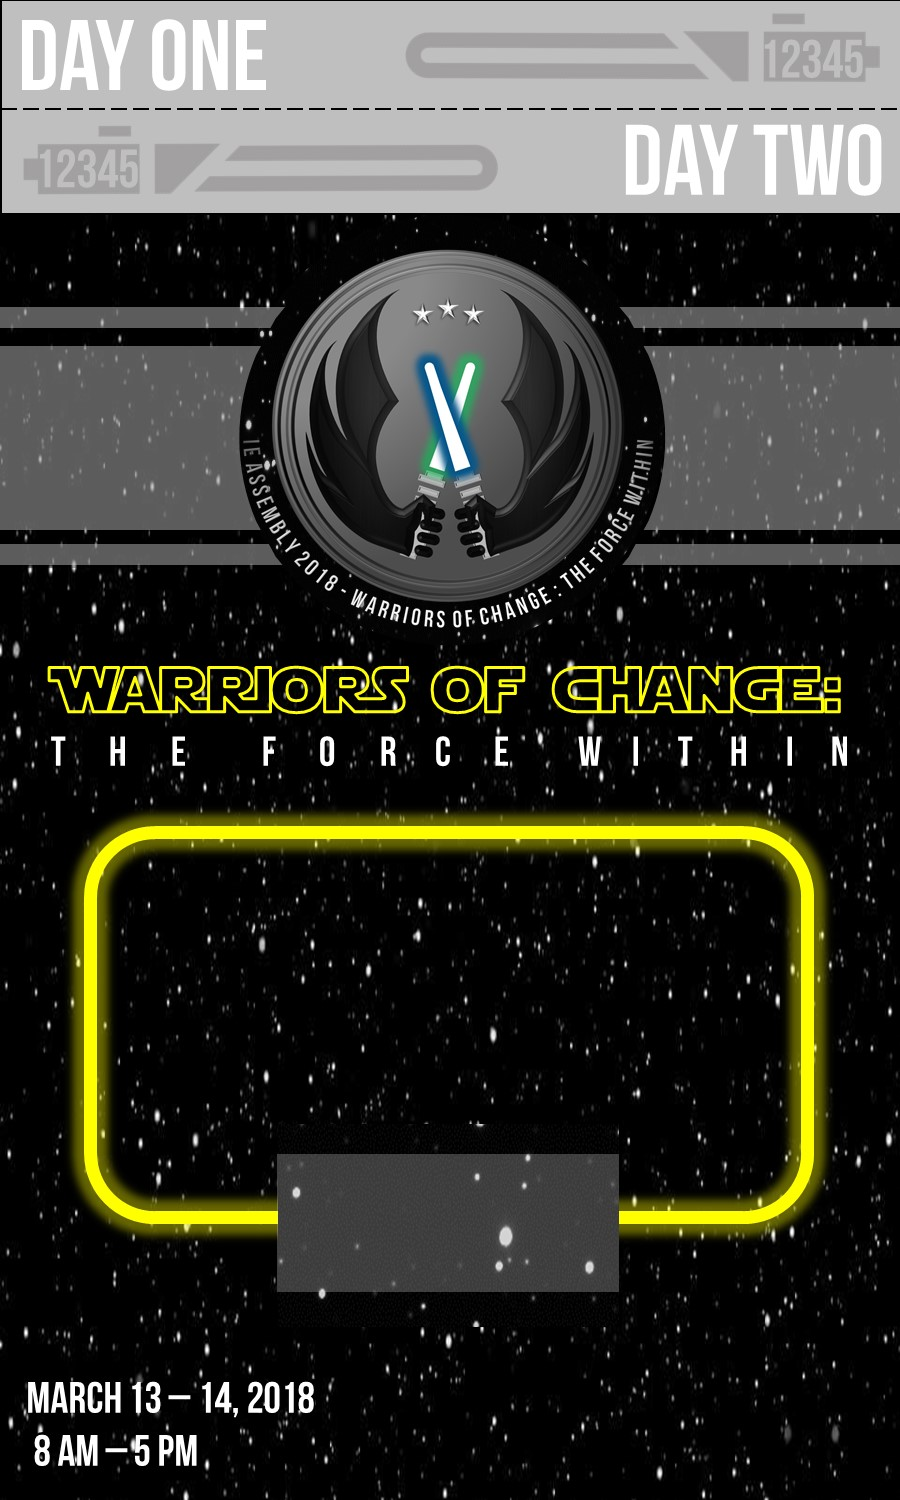
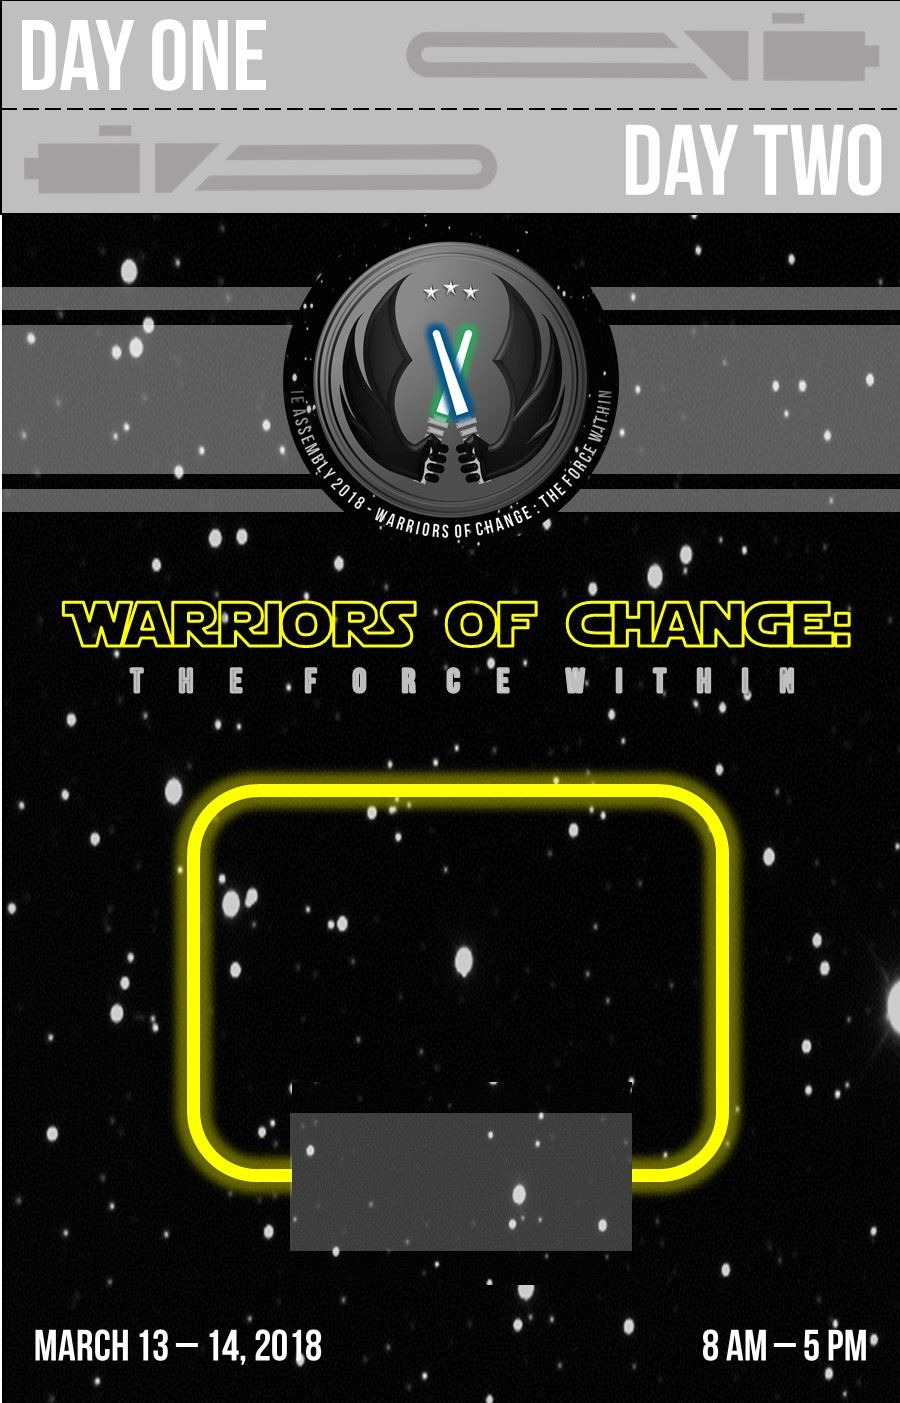
Fixed id template

diff --git a/style.css b/style.css
@@ -15,17 +15,22 @@ img{
 	height:449.28px;
 }
 
+@font-face {
+    font-family: Bebas;
+    src: url('fonts/BEBAS.ttf');
+}
+
 p{
 	color: #ffff64;
 	font-weight: bold;
 	text-align: center;
 	width: 100%;
-	font-family: bebas;
+	font-family: Bebas;
 }
 #fn{
 
     position: relative;
-    top: 250px;
+    top: 265px;
     font-size: 20px;
     
 
@@ -34,7 +39,7 @@ p{
 #ln{
 
     position: relative;
-    top: 240px;
+    top: 245px;
     font-size: 20px;
 	
 }
@@ -43,6 +48,25 @@ p{
     
 	color: white;
     position: relative;
-    top: 255px;
-    font-size: 13px;
+    top: 265px;
+    font-size: 12px;
+}
+
+#dayOne{
+	
+	color: #bfbfbf;
+	position: absolute;
+	top: 47px;
+	left: 17px;
+	font-size: 12px;
+}
+
+#dayTwo{
+	
+	color: #bfbfbf;
+ 	position: absolute;
+	top: 11.5px;
+	right: 15px;
+	font-size: 12px;
+
 }

diff --git a/id.php b/id.php
@@ -11,6 +11,8 @@
 		<p id="fn"> <?php if(isset($_GET['fn'])){ echo $_GET['fn'];} ?></p>
 		<p id="ln"> <?php if(isset($_GET['ln'])){ echo $_GET['ln'];} ?> </p>
 		<p id="number"> <?php if(isset($_GET['event_id'])){ echo $_GET['event_id'];} ?> </p>
+		<span id="dayOne"> <?php if(isset($_GET['event_id'])){ echo substr($_GET['event_id'], 6, 4); } ?> </span>
+		<span id="dayTwo"> <?php if(isset($_GET['event_id'])){ echo substr($_GET['event_id'], 6, 4); } ?> </span>
 	</div>
 
 </body>

diff --git a/connect.php b/connect.php
@@ -1,5 +1,5 @@
 <?php
-	$con = mysqli_connect("localhost","root","","ie_convention");
+	$con = mysqli_connect("localhost","root","raniel1206","ie_convention");
 	if(!$con){
 		die("Connection failed: " . $con->connect_error);
 	}
